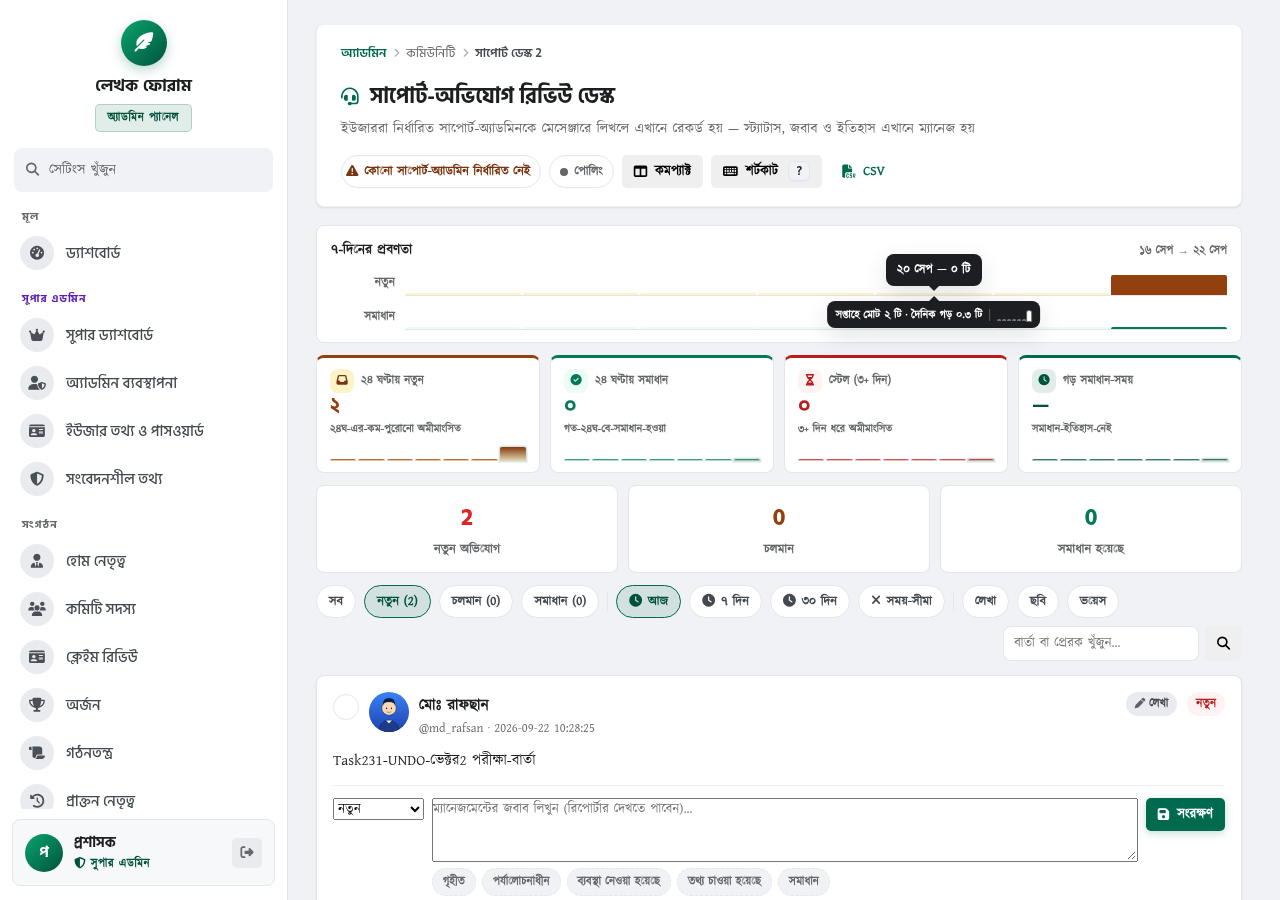
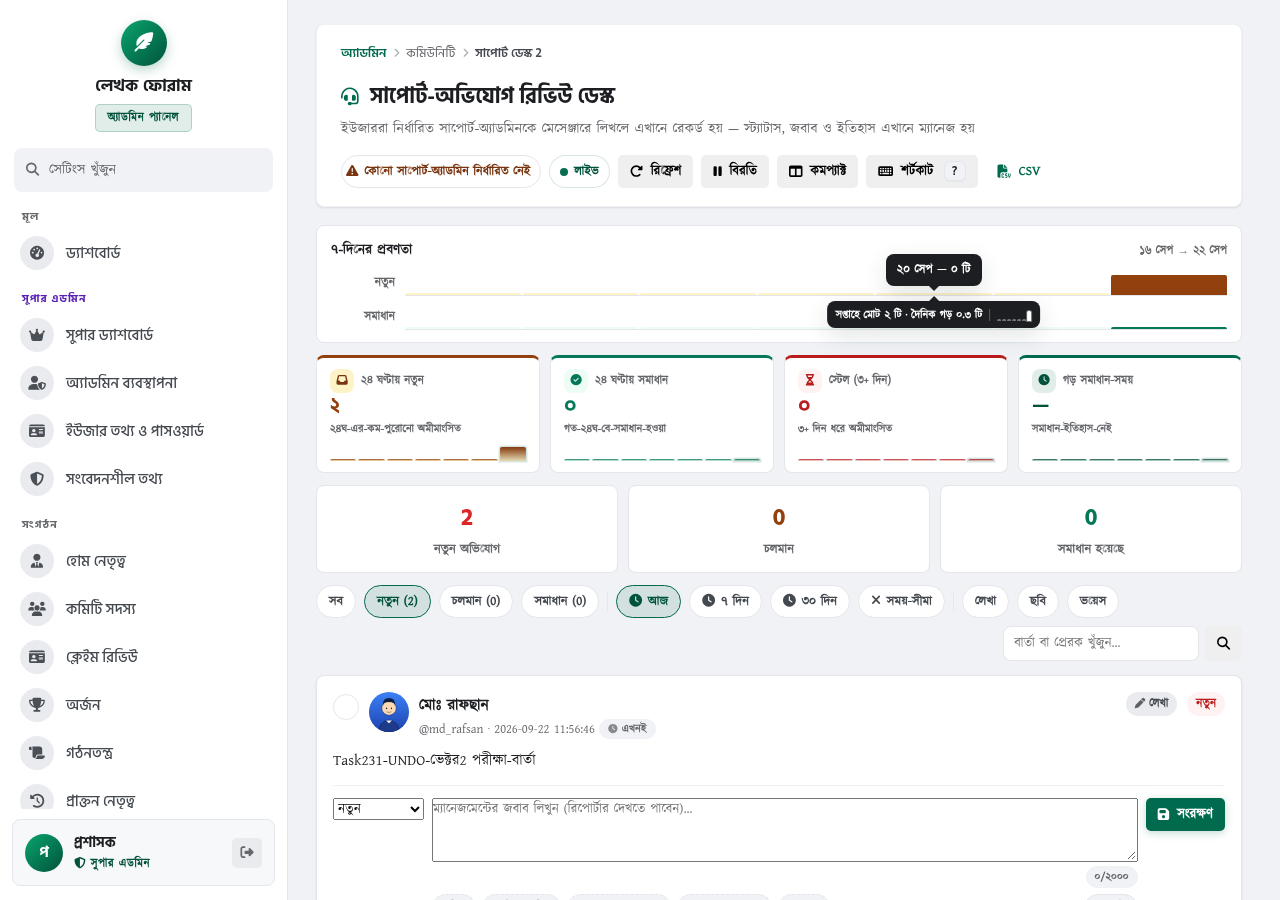
session237: Express support-center অক্ষর-গণনা + কপি-প্যাক + তুলনামূলক-সময় প্যাক — বাগ-ফিক্স (P1-ইনফ্রা): s231-desk/s232/s233/s234-চার-সুইটের স্টেল-ROOT-ডিফল্ট (/home/z/lekhok-forum → রিপো-রুট) — LEKHOK_ROOT-এক্সপোর্ট-ছাড়া অর্ধেক-ব্যাটারি 'FATAL: seed ব্যর্থ' (MODULE_NOT_FOUND) ছিল; ফিক্সে এক্সপোর্

diff --git a/lekhok-forum/helpers/support-center.js b/lekhok-forum/helpers/support-center.js
@@ -115,6 +115,18 @@ function staleCount(rows) {
   return (rows || []).filter(r => r && r.status !== 'RESOLVED' && agingInfo(r.created_at, r.status).days >= 3).length;
 }
 
+// session237 — তুলনামূলক সময় (এক-উৎস; createdAtMs-UTC-রীতি — ক্লায়েন্ট-TZ-গণনা-শূন্য; never-throws — করাপ্ট-তারিখে খালি)
+function relTimeBn(createdAt) {
+  const t = createdAtMs(createdAt);
+  if (t === null) return '';
+  const mins = Math.floor((Date.now() - t) / 60000);
+  if (mins < 1) return 'এখনই';
+  if (mins < 60) return bnNum(mins) + ' মি আগে';
+  const hrs = Math.floor(mins / 60);
+  if (hrs < 24) return bnNum(hrs) + ' ঘ আগে';
+  return bnNum(Math.floor(hrs / 24)) + ' দিন আগে';
+}
+
 // CSV-এর "ইতিহাস" কলামের কমপ্যাক্ট বাংলা সারাংশ
 function historySummaryBn(historyJson) {
   const arr = parseHistory(historyJson);
@@ -246,5 +258,5 @@ module.exports = {
   SUPPORT_ADMIN_KEY, STATUSES, STATUS_LABEL, MEDIA_TYPES,
   getSupportAdminId, getSupportAdmin, setSupportAdmin, clearSupportAdmin, isSupportAdmin,
   parseHistory, appendHistory, lastNoteOf, agingInfo, staleCount, historySummaryBn, bnNum,
-  createdAtMs, resolvedAtMs, trend7, digestStats
+  createdAtMs, resolvedAtMs, trend7, digestStats, relTimeBn
 };

diff --git a/lekhok-forum/admin/routes.js b/lekhok-forum/admin/routes.js
@@ -2316,7 +2316,8 @@ function scDecorate(rows) {
   return rows.map(r => ({
     ...r,
     history: SC.parseHistory(r.note_history),
-    aging: SC.agingInfo(r.created_at, r.status)
+    aging: SC.agingInfo(r.created_at, r.status),
+    rel: SC.relTimeBn(r.created_at) // session237 — তুলনামূলক-সময় (helpers-এক-উৎস; ক্লায়েন্ট-TZ-গণনা-শূন্য)
   }));
 }
 

diff --git a/lekhok-forum/PLANS.md b/lekhok-forum/PLANS.md
@@ -2619,3 +2619,14 @@ push-পূর্ব rebase-এ (f629b06) দেখা যায় আরেক
 - **E2E-গোটচা ×৩ (নতুন):** ① **dirty-অবস্থায় ম্যানুয়াল location.reload() নিষিদ্ধ** — beforeunload-ডায়ালগ headless-এ হ্যাং/মিথ্যা-ফেল করায়; সুইট-ক্রম = পরিষ্কার-পথ (অটো-রিলোড-প্রমাণ) আগে, dirty-ব্লক-পরীক্ষা শেষে (কোনো-reload-লাগে-না) ② **রিলোড-অতিক্রান্ত-প্রমাণ = sessionStorage** (window-স্টেট রিসেট হয়; sessionStorage ট্যাবে-টিকে) — observer → sessionStorage-লেখা → রিলোড-পরে-পড়া ③ **observer-arm রিট্রাই-লুপ** (৩-চেষ্টা, 'armed'-grep) — অস্থায়ী-ev-শূন্য-ফেরত ×৩-পর্যন্ত-দেখা-গেছে; arm-ব্যর্থ = নীরব-মিথ্যা-নেগেটিভ।
 - **s235-হার্ডেনিং (এ-রাউন্ডে-ই):** সুইট-শুরুতে `agent-browser set viewport 1280 900` + MOB-eval রিট্রাই ×৩ — ডেমন-স্থায়ী-ছোট-ভিউপোর্ট/অস্থায়ী-eval-শূন্য-ফেরত-প্রতিষ্কার; সব-পুরোনো-সুইটেও এ-প্যাটার্ন-গ্রহণ-করুন।
 - **পরের-এজেন্ট: session237 থেকে।** বাকি-প্রস্তাব: Turso/প্রোড-পোর্ট (পরিকল্পনা-গেটে-অক্ষুণ্ণ), stale-সুইট-আধুনিকীকরণ; সুইট-বর্ধনে s236/s235-ই-বেস; push-আগে fetch+rebase-বাধ্যতমূলক।
+
+### session237 — সুইট-ROOT-ফিক্স + অক্ষর-গণনা + কপি-প্যাক + তুলনামূলক-সময় (cross-agent নোট)
+
+- **সুইট-ROOT-ডিফল্ট-চুক্তি:** সব-সুইটে `ROOT="${LEKHOK_ROOT:-/home/z/lekhok-forum/lekhok-forum}"` (রিপো-রুট-সেমান্টিক্স) — নতুন-সুইটে-ও-এ-ডিফল্ট; LEKHOK_ROOT-এক্সপোর্ট-ছাড়াই-ব্যাটারি-চলবে-ই (স্যান্ডবক্স-পুনঃসূচনা-সহনশীলতা)।
+- **IIFE-ক্লোজার-গোটচা (নতুন):** ভিউ-স্ক্রিপ্টের ভিতরের হেল্পার (যেমন bnJs) page-eval-এ **অদৃশ্য** (ReferenceError → agent-browser খালি-ফেরত) — সুইটের eval-এ প্রয়োজনে রূপান্তর-লজিক eval-ভিতরেই-পুনর্লিখন করুন।
+- **.sc-tpl-নির্বাচক-চুক্তি:** .sc-tpl-এ এখন কপি-বাটনও-আছে — টেমপ্লেট-ফিল-হ্যান্ডলার `.sc-tpl button[data-tpl]`-ফিল্টারসহ; নতুন-বাটন-যোগ করলে সিলেক্টর-অন্তর্ভুক্তি-যাচাই-বাধ্যতমূলক (value='null'-দূষণ-প্রতিরোধ)।
+- **কপি-প্যাক-চুক্তি:** ক্লিপবোর্ড-API-আগে, execCommand-ফলব্যাক (headless-নিরাপদ); ইতিহাস-কপি data-hnote-DOM-উৎস (data-entry-পুনঃপার্স-নয়); খালি-লেখায় নীরব-ব্যর্থ-নয় — টোস্ট।
+- **relTimeBn-চুক্তি:** তারিখ-গণনা helpers-এক-উৎস (createdAtMs-UTC-রীতি — naive → 'Z'-যোগ); ক্লায়েন্ট-TZ-গণনা-নিষিদ্ধ-রীতি অক্ষুণ্ণ; নতুন-সময়-হুক = scDecorate-ই-দিয়ে-যান (page+data-উভয়-পথ)।
+- **DB-পরিষ্কার-প্যাটার্ন (নতুন):** ইতিহাস-টেস্টে PUT note-only (স্ট্যাটাস-অস্পৃষ্ট) + শেষে PATCH delete-note-ফেরত; admin_note-কলাম-অবশিষ্ট TAG-প্রিফিক্সড-রাখুন (পরের-seed-প্রি-ক্লিন-পথ)।
+- **ডিসপ্লে-আর্টিফ্যাক্ট-গোটচা (নতুন):** দীর্ঘ-বাংলা-লাইনের-পরবর্তী-লাইনে sed/Read-আউটপুটে ক্যারেক্টার-কাটা-পড়তে-পারে (মিথ্যা-সিনট্যাক্স-ভয়) — **od -c / node --check-ই-সত্য-উৎস**; দেখা-যাচাই-ভরসা-করবেন-না।
+- **পরের-এজেন্ট: session238 থেকে।** বাকি-প্রস্তাব: Turso/প্রোড-পোর্ট (পরিকল্পনা-গেটে-অক্ষুণ্ণ), stale-সুইট-আধুনিকীকরণ; সুইট-বর্ধনে s237/s236-ই-বেস; push-আগে fetch+rebase-বাধ্যতমূলক।
